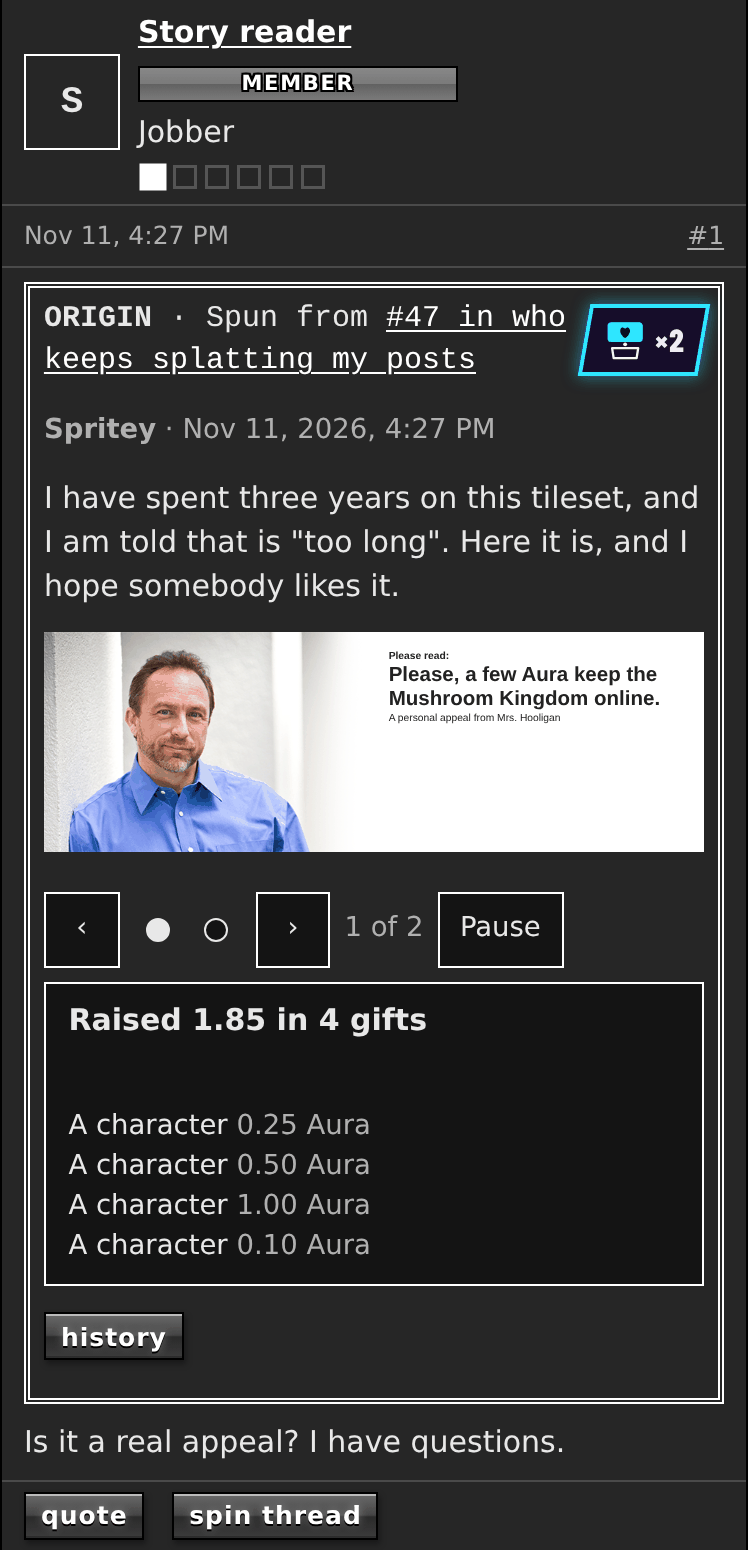
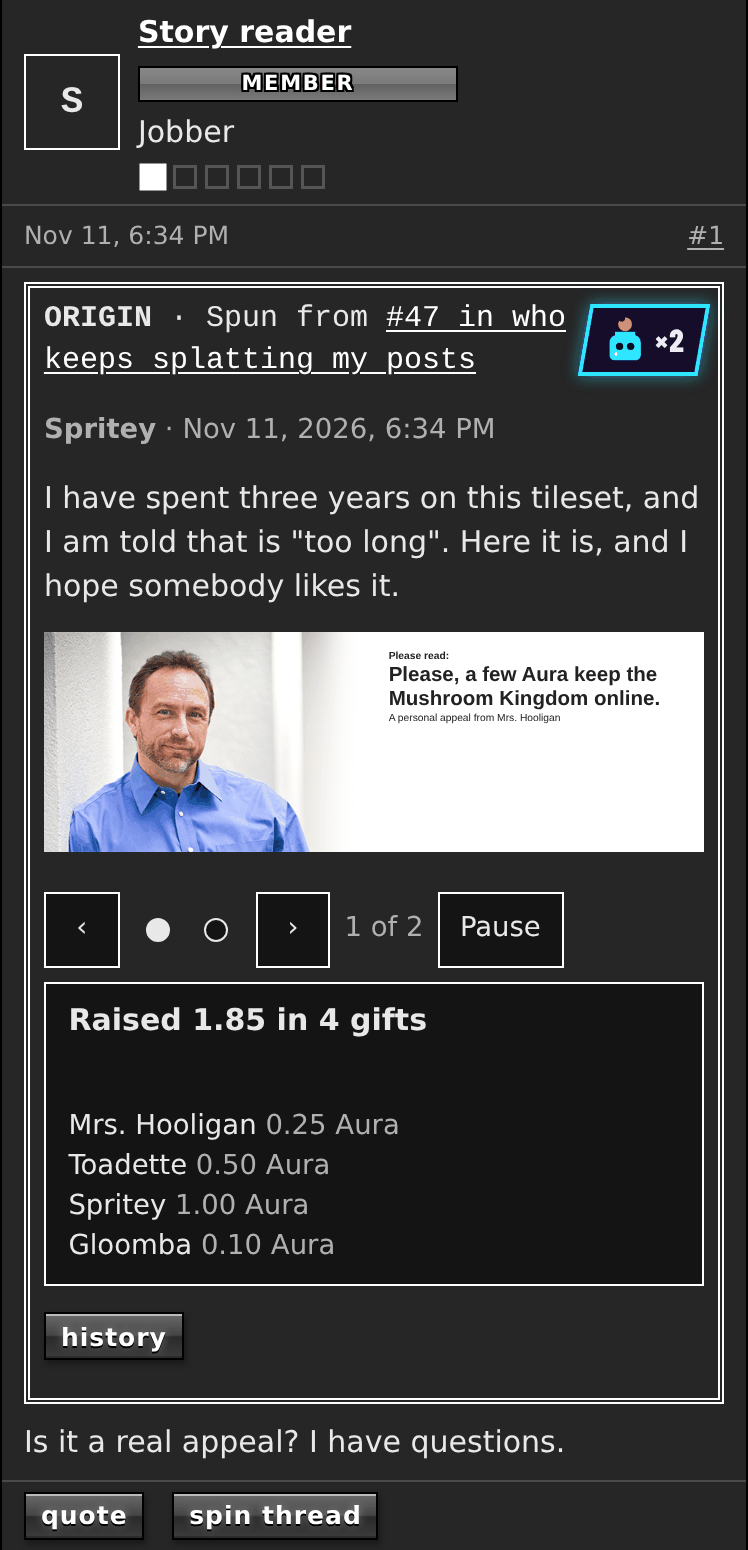
Jimmy Wails shots: the ORIGIN box is retaken with its givers named
Claude-Session: https://claude.ai/code/session_01FiUbYPRxGPiiL8uxXVGdGX

diff --git a/docs/research/2026-11-03-jimmy-wails-shots/README.md b/docs/research/2026-11-03-jimmy-wails-shots/README.md
@@ -16,10 +16,10 @@ Each case is shot four ways, `<case>-<light|dark>-<1440|390>.png`: the light and
 | `plate-dark-long` | The dark-logo plate with the 200-character message. |
 | `drive-three-mid` | A drive of three appeals (one on each plate) at its second, with the carousel's previous and next, dots, "2 of 3" and Pause, and three gifts on the wall. |
 | `drive-long-wall` | Three appeals and 26 gifts: the wall holds the latest 20 and says "and 6 more". |
-| `drive-closed` | A drive of two appeals, a week and a day old: "This drive has ended. It raised 5.30 in 11 gifts.", no buttons, the wall kept. |
+| `drive-closed` | A drive of two appeals, a week and a day old: "This drive has ended. It raised 5.30 in 11 gifts.", no give buttons, the wall kept. |
 | `drive-earlier-collapsed` | A closed drive and, after it, a new drive of one appeal. The closed one is the line "An earlier drive raised 3.45 in 7 gifts", shown opened so its banners show. |
 | `drive-reduced-motion` | The three-appeal carousel under reduced motion, on its second appeal: no Pause button, no fade, no rotation, and previous and next still work. |
-| `origin-box` | A thread spun from the post: its ORIGIN box shows the banners and the totals and no buttons. |
+| `origin-box` | A thread spun from the post: its ORIGIN box shows the banners and the totals and no give buttons (the carousel keeps its own controls). |
 | `button-short-wallet` | One appeal with a wallet of 0.20 Aura: 0.10 can be given, and 0.25, 0.50 and 1.00 are disabled. |
 
 ## How they were taken
